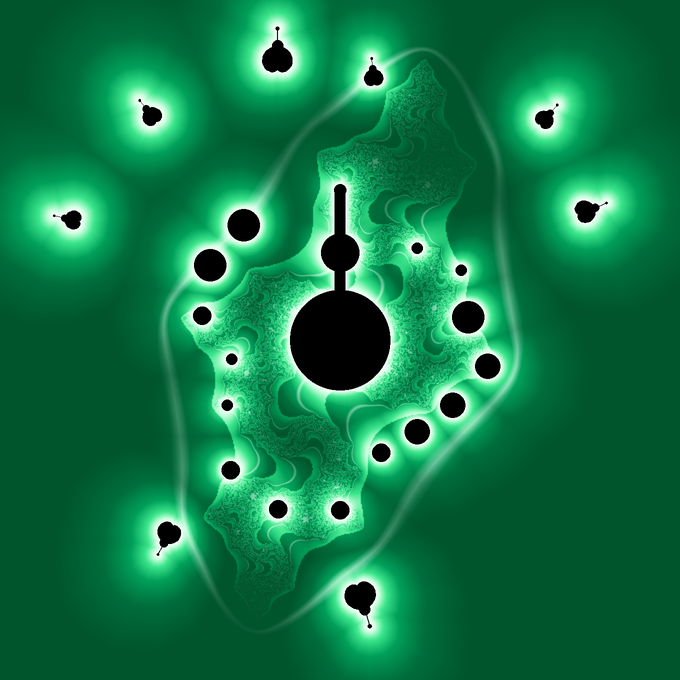
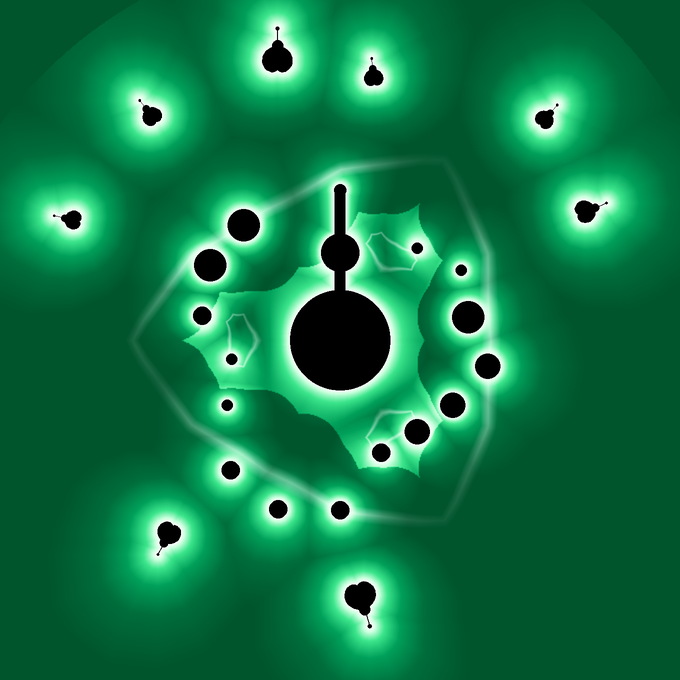
Stronger per-phrase art: formula family, kaleidoscope/swirl, glow reach
The phrase seed now also picks the fractal formula (Julia, Burning Ship,
cubic Multibrot, Tricorn, Phoenix), an n-fold kaleidoscope fold with a
swirl of the plane, and how far the glow reaches. Textures with no visible
structure near the shapes are re-rolled. Data geometry is unchanged;
decoder untouched. Adds gallery/variety contact sheet.

diff --git a/hidden_in_plain_sight/encoder.py b/hidden_in_plain_sight/encoder.py
@@ -47,26 +47,73 @@ DEFAULT_THEME = "mandelbrot"
 BG = THEMES[DEFAULT_THEME]["bg"]        # used by test.py for rotation borders
 
 
+FORMULAS = ["julia", "burning_ship", "multibrot3", "tricorn", "phoenix"]
+
+
 def julia_field(size, c, R, rng):
-    """Escape-time band texture in [0,1), seeded; used to make the glow fractal."""
+    """Escape-time band texture in [0,1), seeded from the phrase.
+
+    Three phrase-driven modifiers make every message look different:
+      1. the fractal FORMULA family (Julia, Burning Ship, cubic multibrot, Tricorn, Phoenix)
+      2. a KALEIDOSCOPE fold (n-fold mirror symmetry) plus a SWIRL of the plane
+      3. the Julia constant, spin, zoom and band period
+    Only the glow texture changes; the shapes that carry the data are untouched.
+    """
     lo = max(240, size // 2)
     ys, xs = np.mgrid[0:lo, 0:lo].astype(np.float32)
     k = size / lo
     px, py = xs * k - c, ys * k - c
-    spin = rng.uniform(0, 2 * math.pi)
-    rad = np.hypot(px, py) / (layout.CANVAS_HALF * R) * 1.8
-    th = np.arctan2(py, px) + spin
-    z = (rad * np.cos(th) + 1j * rad * np.sin(th)).astype(np.complex64)
-    cre, cim = rng.choice(JULIA_SEEDS)
-    cval = complex(cre + rng.uniform(-0.02, 0.02), cim + rng.uniform(-0.02, 0.02))
+    rad = np.hypot(px, py) / (layout.CANVAS_HALF * R)
+    th = np.arctan2(py, px)
+
+    # --- modifier 2: swirl + kaleidoscope -------------------------------------------
+    swirl = rng.choice([0, 0, rng.uniform(-2.5, 2.5)])
+    th = th + swirl * np.log(rad + 0.05)
+    folds = rng.choice([1, 1, 3, 4, 5, 6, 7, 8])
+    if folds > 1:
+        sector = 2 * math.pi / folds
+        th = np.abs((th % sector) - sector / 2)        # mirror inside each sector
+    th = th + rng.uniform(0, 2 * math.pi)
+    zoom = rng.uniform(1.3, 2.4)
+    z = (zoom * rad * np.cos(th) + 1j * zoom * rad * np.sin(th)).astype(np.complex64)
+
+    # --- modifier 1: formula family --------------------------------------------------
+    formula = rng.choice(FORMULAS)
+    p = 0.0
+    if formula == "multibrot3":
+        cval = complex(rng.uniform(-0.6, 0.6), rng.uniform(-0.6, 0.6))
+    elif formula == "burning_ship":
+        cval = complex(rng.uniform(-1.8, -0.2), rng.uniform(-0.1, 0.9))
+    elif formula == "tricorn":
+        cval = complex(rng.uniform(-1.0, 0.4), rng.uniform(-0.8, 0.8))
+    elif formula == "phoenix":
+        cval = complex(rng.uniform(0.3, 0.6), 0.0)
+        p = rng.uniform(-0.6, -0.3)
+    else:
+        cre, cim = rng.choice(JULIA_SEEDS)
+        cval = complex(cre + rng.uniform(-0.02, 0.02), cim + rng.uniform(-0.02, 0.02))
+
     count = np.zeros(z.shape, np.float32)
     alive = np.ones(z.shape, bool)
+    prev = np.zeros_like(z)
     for i in range(60):
-        z[alive] = z[alive] ** 2 + cval
+        za = z[alive]
+        if formula == "julia":
+            zn = za * za + cval
+        elif formula == "burning_ship":
+            zn = (np.abs(za.real) + 1j * np.abs(za.imag)) ** 2 + cval
+        elif formula == "multibrot3":
+            zn = za * za * za + cval
+        elif formula == "tricorn":
+            zn = np.conj(za) ** 2 + cval
+        else:  # phoenix: z_{n+1} = z^2 + c + p * z_{n-1}
+            zn = za * za + cval + p * prev[alive]
+            prev[alive] = za
+        z[alive] = zn
         esc = alive & (np.abs(z) > 4)
         count[esc] = i + 1 - np.log2(np.log(np.abs(z[esc]) + 1e-9))
         alive &= ~esc
-    t = (count / rng.uniform(3.5, 6.0)) % 1.0
+    t = (count / rng.uniform(3.5, 7.0)) % 1.0
     t[alive] = 0.5
     return cv2.resize(t, (size, size), interpolation=cv2.INTER_LINEAR)
 
@@ -137,13 +184,20 @@ def render(words, wordlist, R=DEFAULT_R, ss=SUPERSAMPLE, theme=DEFAULT_THEME):
     mask = np.array(black_mask(symbols, Rs, size, rng)) > 127
     dist = cv2.distanceTransform((~mask).astype(np.uint8), cv2.DIST_L2, 5) / Rs
 
-    # fractal glow: distance field warped by a Julia texture, plus bright filaments
-    T = julia_field(size, c, Rs, rng)
-    u = dist * (0.5 + 1.0 * T)
+    # fractal glow: distance field warped by a seeded fractal texture, plus bright filaments.
+    # Re-roll the texture (same seeded stream) until it has real structure near the shapes,
+    # so no phrase ends up with plain round halos.
+    glow_zone = (dist > 0.05) & (dist < 1.4)
+    for _ in range(6):
+        T = julia_field(size, c, Rs, rng)
+        if float(T[glow_zone].std()) > 0.22:
+            break
+    reach = rng.uniform(0.85, 1.35)            # modifier 3: how far the glow spreads
+    u = dist / reach * (0.5 + 1.0 * T)
     xs = np.array([s for s, _ in th["ramp"]], np.float32)
     cols = np.array([col for _, col in th["ramp"]], np.float32)
     img = np.stack([np.interp(u, xs, cols[:, k]) for k in range(3)], axis=-1)
-    fil = np.clip(1 - np.abs(T - 0.5) / 0.05, 0, 1) * np.exp(-dist / 0.7) * 0.85
+    fil = np.clip(1 - np.abs(T - 0.5) / 0.05, 0, 1) * np.exp(-dist / (0.7 * reach)) * 0.85
     img = img * (1 - fil[..., None]) + np.array(th["filament"], np.float32) * fil[..., None]
 
     if th["stars"]:

diff --git a/hidden_in_plain_sight/encoder_app/encoder.py b/hidden_in_plain_sight/encoder_app/encoder.py
@@ -47,26 +47,73 @@ DEFAULT_THEME = "mandelbrot"
 BG = THEMES[DEFAULT_THEME]["bg"]        # used by test.py for rotation borders
 
 
+FORMULAS = ["julia", "burning_ship", "multibrot3", "tricorn", "phoenix"]
+
+
 def julia_field(size, c, R, rng):
-    """Escape-time band texture in [0,1), seeded; used to make the glow fractal."""
+    """Escape-time band texture in [0,1), seeded from the phrase.
+
+    Three phrase-driven modifiers make every message look different:
+      1. the fractal FORMULA family (Julia, Burning Ship, cubic multibrot, Tricorn, Phoenix)
+      2. a KALEIDOSCOPE fold (n-fold mirror symmetry) plus a SWIRL of the plane
+      3. the Julia constant, spin, zoom and band period
+    Only the glow texture changes; the shapes that carry the data are untouched.
+    """
     lo = max(240, size // 2)
     ys, xs = np.mgrid[0:lo, 0:lo].astype(np.float32)
     k = size / lo
     px, py = xs * k - c, ys * k - c
-    spin = rng.uniform(0, 2 * math.pi)
-    rad = np.hypot(px, py) / (layout.CANVAS_HALF * R) * 1.8
-    th = np.arctan2(py, px) + spin
-    z = (rad * np.cos(th) + 1j * rad * np.sin(th)).astype(np.complex64)
-    cre, cim = rng.choice(JULIA_SEEDS)
-    cval = complex(cre + rng.uniform(-0.02, 0.02), cim + rng.uniform(-0.02, 0.02))
+    rad = np.hypot(px, py) / (layout.CANVAS_HALF * R)
+    th = np.arctan2(py, px)
+
+    # --- modifier 2: swirl + kaleidoscope -------------------------------------------
+    swirl = rng.choice([0, 0, rng.uniform(-2.5, 2.5)])
+    th = th + swirl * np.log(rad + 0.05)
+    folds = rng.choice([1, 1, 3, 4, 5, 6, 7, 8])
+    if folds > 1:
+        sector = 2 * math.pi / folds
+        th = np.abs((th % sector) - sector / 2)        # mirror inside each sector
+    th = th + rng.uniform(0, 2 * math.pi)
+    zoom = rng.uniform(1.3, 2.4)
+    z = (zoom * rad * np.cos(th) + 1j * zoom * rad * np.sin(th)).astype(np.complex64)
+
+    # --- modifier 1: formula family --------------------------------------------------
+    formula = rng.choice(FORMULAS)
+    p = 0.0
+    if formula == "multibrot3":
+        cval = complex(rng.uniform(-0.6, 0.6), rng.uniform(-0.6, 0.6))
+    elif formula == "burning_ship":
+        cval = complex(rng.uniform(-1.8, -0.2), rng.uniform(-0.1, 0.9))
+    elif formula == "tricorn":
+        cval = complex(rng.uniform(-1.0, 0.4), rng.uniform(-0.8, 0.8))
+    elif formula == "phoenix":
+        cval = complex(rng.uniform(0.3, 0.6), 0.0)
+        p = rng.uniform(-0.6, -0.3)
+    else:
+        cre, cim = rng.choice(JULIA_SEEDS)
+        cval = complex(cre + rng.uniform(-0.02, 0.02), cim + rng.uniform(-0.02, 0.02))
+
     count = np.zeros(z.shape, np.float32)
     alive = np.ones(z.shape, bool)
+    prev = np.zeros_like(z)
     for i in range(60):
-        z[alive] = z[alive] ** 2 + cval
+        za = z[alive]
+        if formula == "julia":
+            zn = za * za + cval
+        elif formula == "burning_ship":
+            zn = (np.abs(za.real) + 1j * np.abs(za.imag)) ** 2 + cval
+        elif formula == "multibrot3":
+            zn = za * za * za + cval
+        elif formula == "tricorn":
+            zn = np.conj(za) ** 2 + cval
+        else:  # phoenix: z_{n+1} = z^2 + c + p * z_{n-1}
+            zn = za * za + cval + p * prev[alive]
+            prev[alive] = za
+        z[alive] = zn
         esc = alive & (np.abs(z) > 4)
         count[esc] = i + 1 - np.log2(np.log(np.abs(z[esc]) + 1e-9))
         alive &= ~esc
-    t = (count / rng.uniform(3.5, 6.0)) % 1.0
+    t = (count / rng.uniform(3.5, 7.0)) % 1.0
     t[alive] = 0.5
     return cv2.resize(t, (size, size), interpolation=cv2.INTER_LINEAR)
 
@@ -137,13 +184,20 @@ def render(words, wordlist, R=DEFAULT_R, ss=SUPERSAMPLE, theme=DEFAULT_THEME):
     mask = np.array(black_mask(symbols, Rs, size, rng)) > 127
     dist = cv2.distanceTransform((~mask).astype(np.uint8), cv2.DIST_L2, 5) / Rs
 
-    # fractal glow: distance field warped by a Julia texture, plus bright filaments
-    T = julia_field(size, c, Rs, rng)
-    u = dist * (0.5 + 1.0 * T)
+    # fractal glow: distance field warped by a seeded fractal texture, plus bright filaments.
+    # Re-roll the texture (same seeded stream) until it has real structure near the shapes,
+    # so no phrase ends up with plain round halos.
+    glow_zone = (dist > 0.05) & (dist < 1.4)
+    for _ in range(6):
+        T = julia_field(size, c, Rs, rng)
+        if float(T[glow_zone].std()) > 0.22:
+            break
+    reach = rng.uniform(0.85, 1.35)            # modifier 3: how far the glow spreads
+    u = dist / reach * (0.5 + 1.0 * T)
     xs = np.array([s for s, _ in th["ramp"]], np.float32)
     cols = np.array([col for _, col in th["ramp"]], np.float32)
     img = np.stack([np.interp(u, xs, cols[:, k]) for k in range(3)], axis=-1)
-    fil = np.clip(1 - np.abs(T - 0.5) / 0.05, 0, 1) * np.exp(-dist / 0.7) * 0.85
+    fil = np.clip(1 - np.abs(T - 0.5) / 0.05, 0, 1) * np.exp(-dist / (0.7 * reach)) * 0.85
     img = img * (1 - fil[..., None]) + np.array(th["filament"], np.float32) * fil[..., None]
 
     if th["stars"]:

diff --git a/hidden_in_plain_sight/METHOD.md b/hidden_in_plain_sight/METHOD.md
@@ -17,9 +17,15 @@ one symbol, and the glow around them is a Julia set seeded by the phrase itself.
    - the slot number (0–14) → the bulb's **direction** (20° apart, antenna side left free)
 5. **Marker.** The big disc + antenna + period-2 bulb (the Mandelbrot silhouette) is the
    reference: its radius gives the scale, its antenna gives the rotation.
-6. **Art.** A SHA-256 hash of the phrase seeds a Julia-set texture, which warps a distance
-   field around the shapes into the glowing fractal fringe. Decorative "mini-brots" sit
-   outside the data zone. Four colour themes (mandelbrot, space, ember, emerald).
+6. **Art.** A SHA-256 hash of the phrase seeds everything decorative, so each phrase has its
+   own fractal. The seed picks:
+   - the **fractal formula family**: Julia, Burning Ship, cubic Multibrot, Tricorn or Phoenix,
+     plus its constant, zoom and band period;
+   - a **kaleidoscope fold** (1- to 8-fold mirror symmetry) and a **swirl** of the plane;
+   - how far the **glow** reaches, and where the decorative "mini-brots" sit.
+   The texture warps a distance field around the shapes into the glowing fringe. The texture is
+   re-rolled from the same seed stream until it has visible structure near the shapes.
+   Four colour themes (mandelbrot, space, ember, emerald). None of this touches the data shapes.
 
 ## Decoding (receiver)
 
